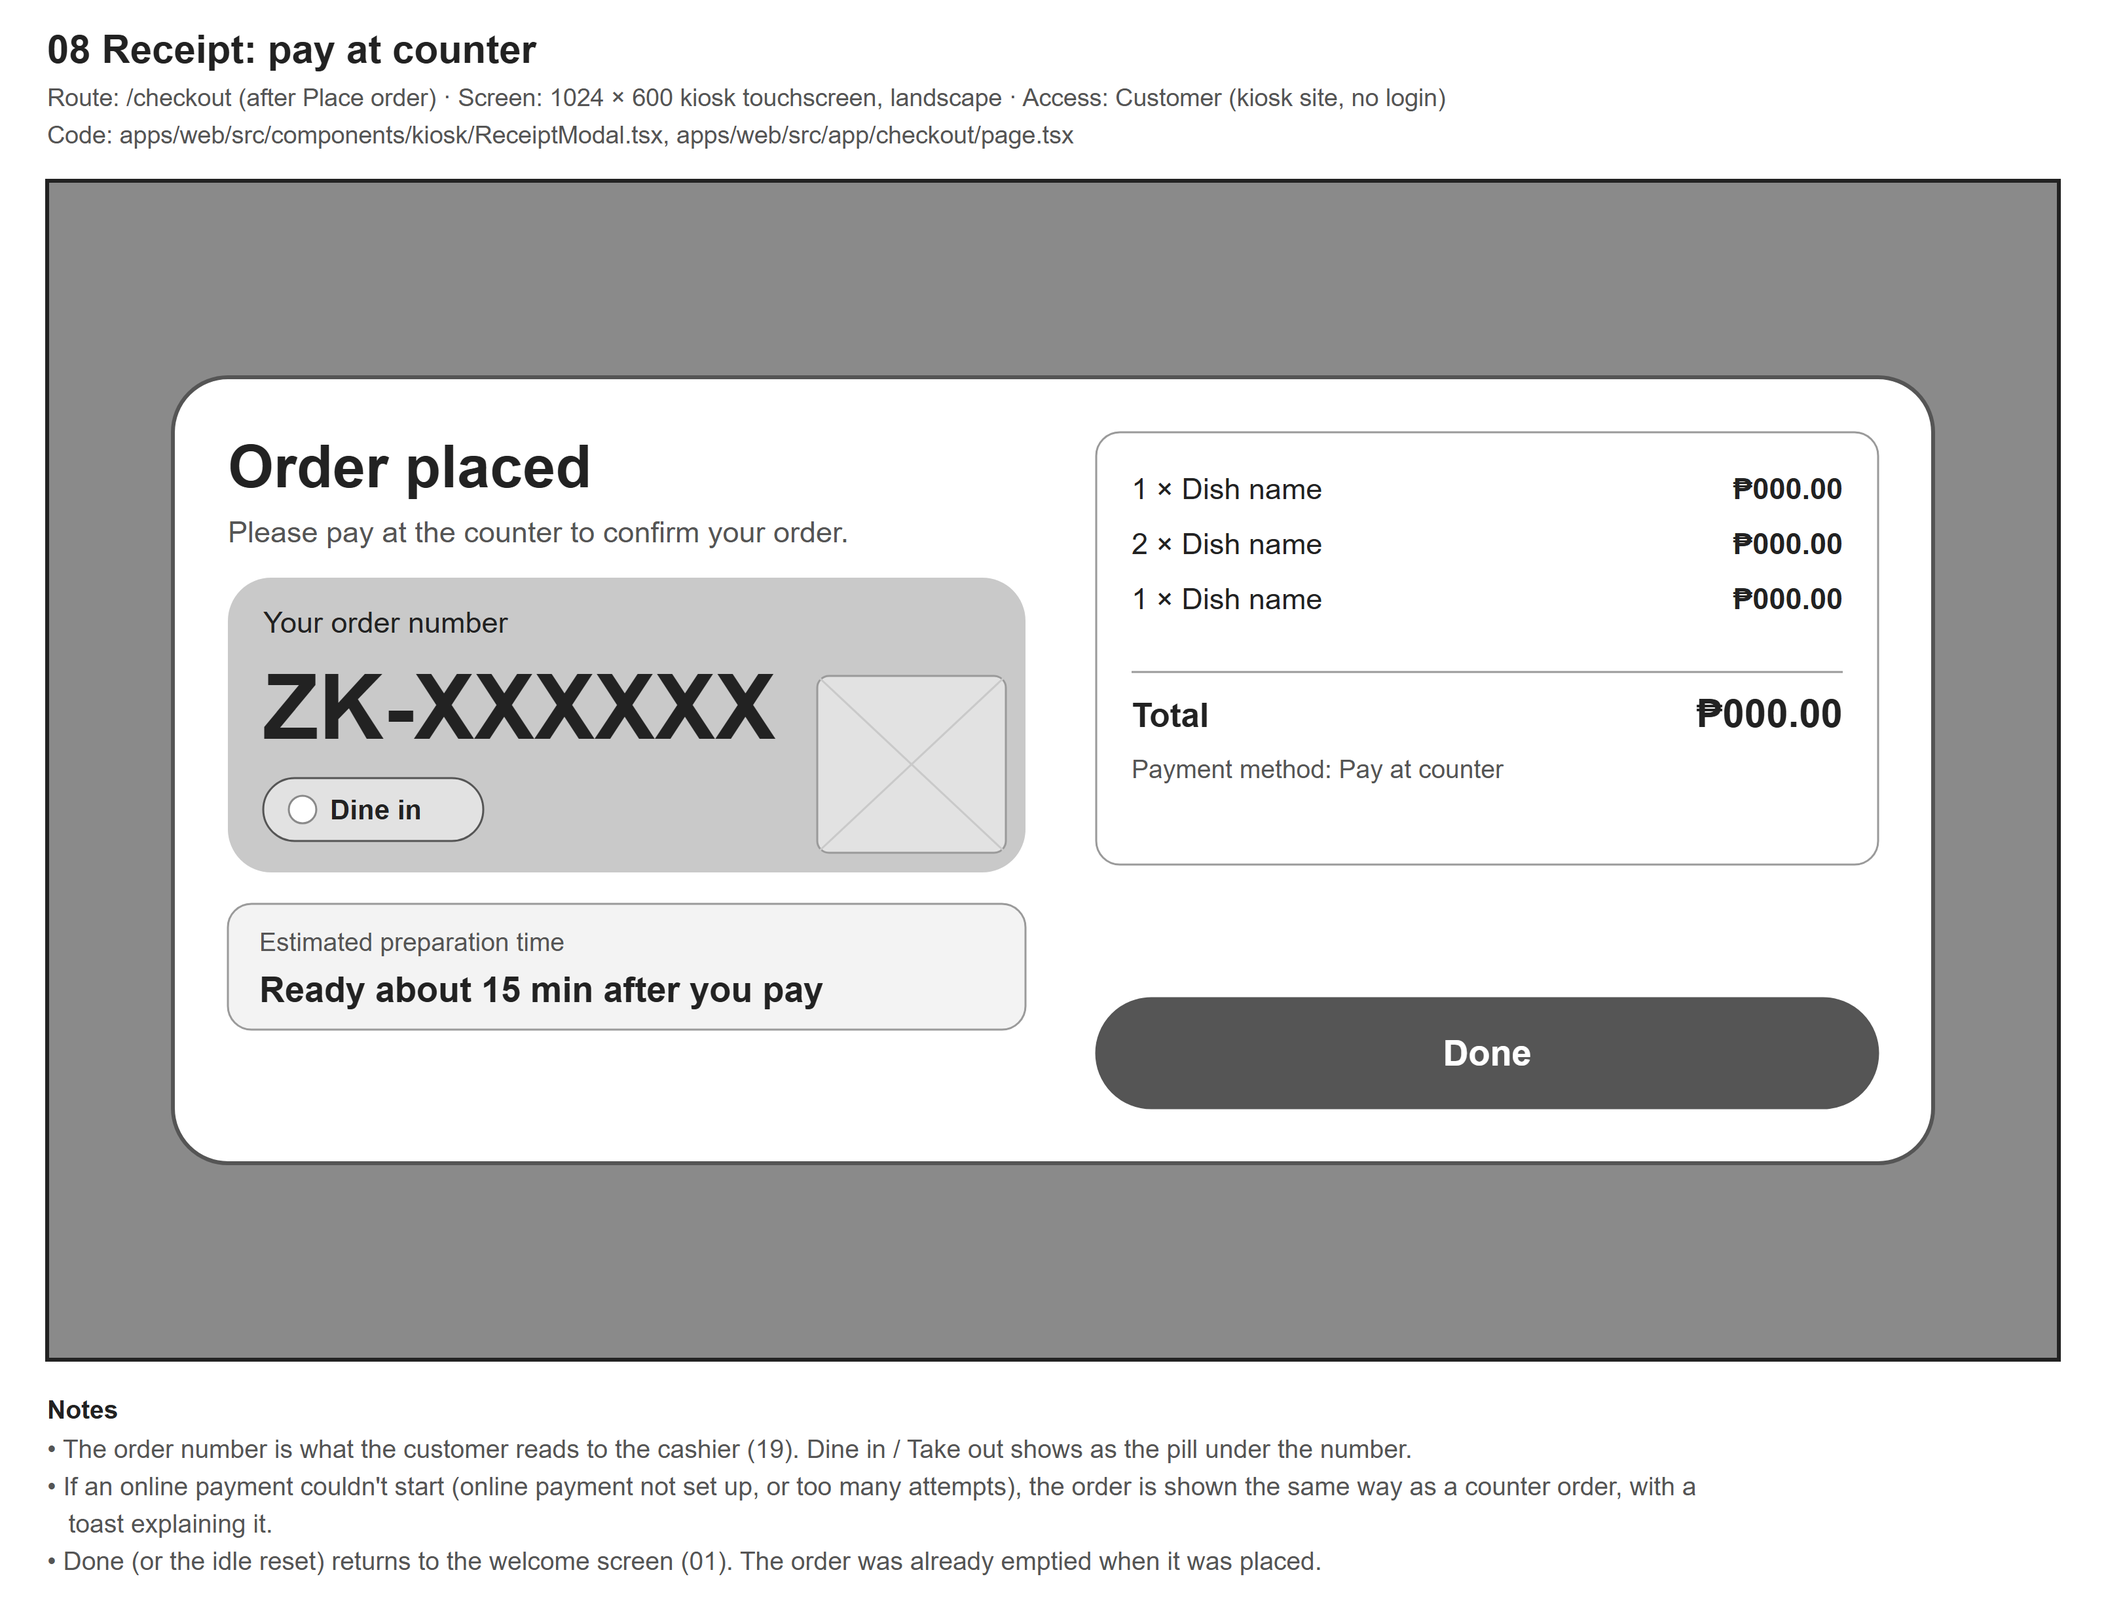
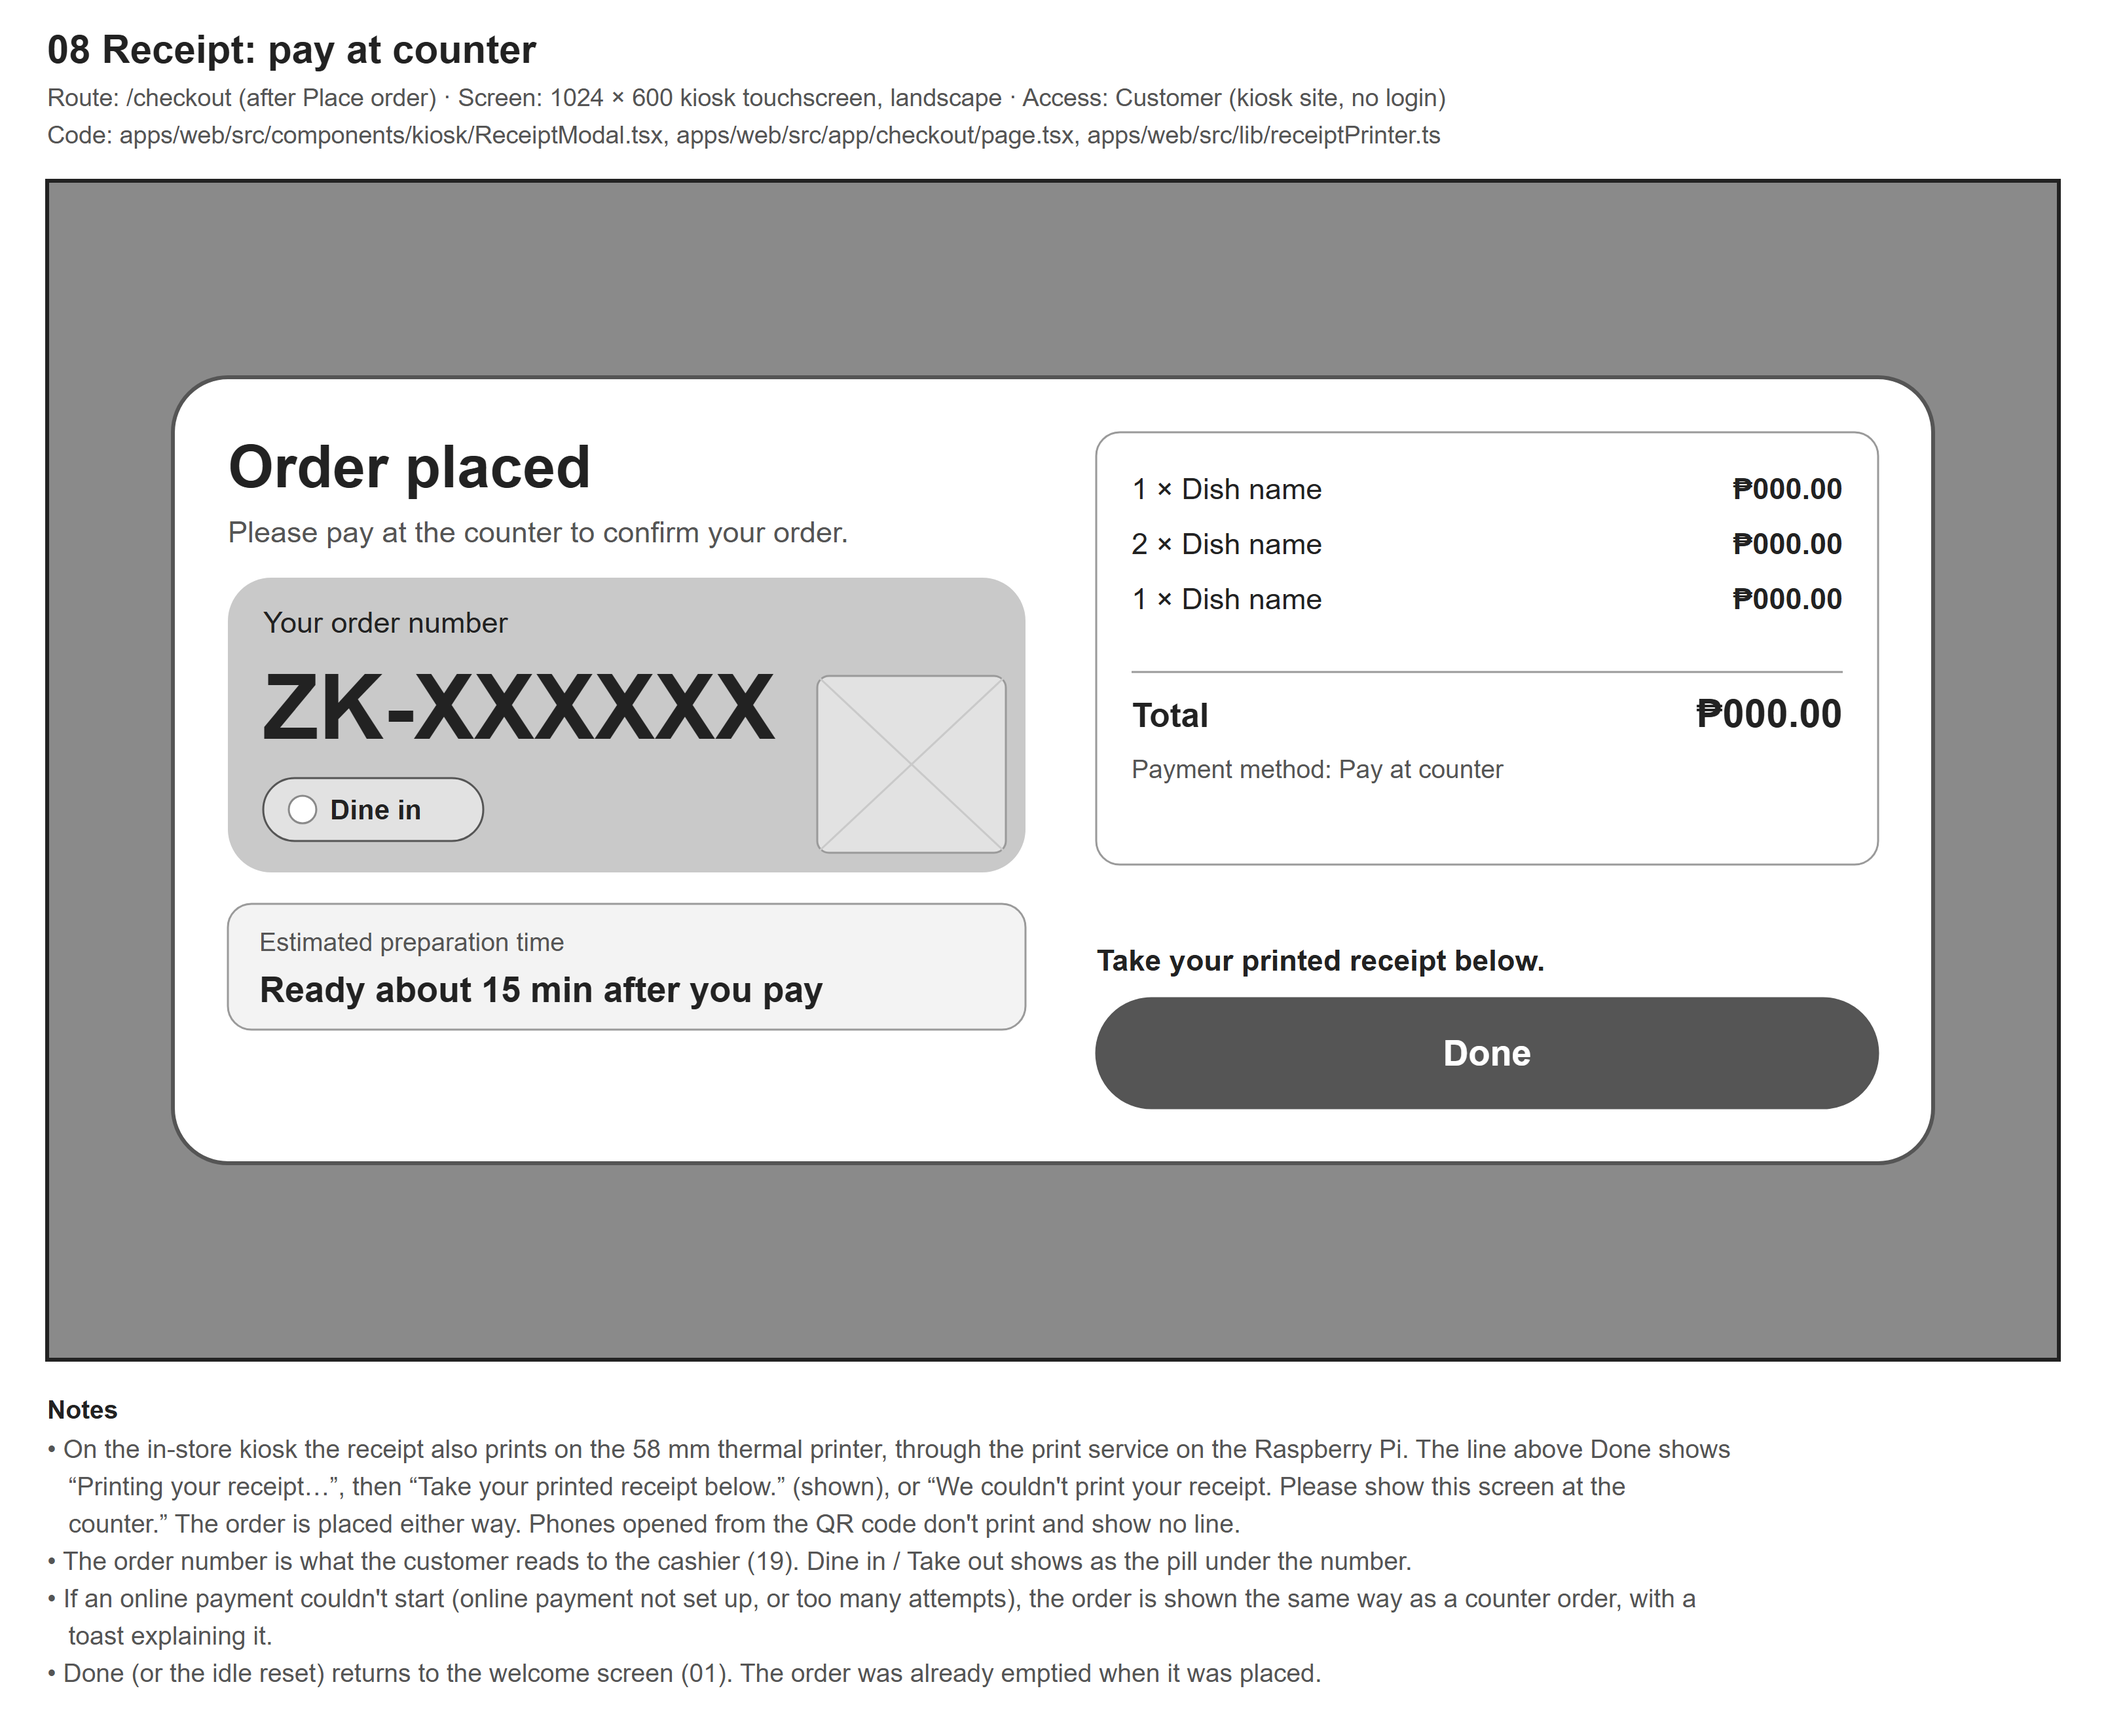
docs: show receipt printing in wireframe 08 and flow 03

diff --git a/docs/diagrams/source/flows.py b/docs/diagrams/source/flows.py
@@ -66,6 +66,7 @@ def ordering():
                  "“Start over” in the top bar, or the idle reset (Flow 13), empties the order and returns to the welcome screen at any point. Dine in / take out is asked only once (02); changing it means starting over.",
                  "If checkout finds an order saved on the device without a dine-in / take-out choice, it sends the customer back to the kiosk home page to choose it (the dishes are kept).",
                  "Estimated preparation time = longest dish + 1 min for each extra serving + 2 min for each order already in the kitchen (orders/prepTime.ts). It is worked out again when the order reaches the kitchen.",
+                 "The print service is a small program on the kiosk's Raspberry Pi (POST http://127.0.0.1:4000/print, printing to the USB printer); it is not in this repository. Printing never blocks the order.",
                  "GCash or Maya chosen while PayMongo isn't set up is saved as Pay at counter. Online payment is not set up in production.",
              ])
     C, K, A = f.lanes
@@ -97,7 +98,10 @@ def ordering():
     f.n("create", A, 20, "process", "Create order ZK-XXXXXX (pending) with a pending payment, total and estimate")
     f.n("counter", K, 21, "decision", "Pay at counter?")
     f.n("receipt", K, 22, "process", "Empty the order; show the receipt with the order number (08)")
-    f.n("pay4", C, 23, "sub", "Pays at the counter (Flow 04)")
+    f.n("printer", K, 23, "decision", "In-store kiosk (opened once with ?printer=1)?")
+    f.n("print", K, 24, "process", "Send the receipt to the print service on the Pi; it prints on the 58 mm printer")
+    f.n("printed", K, 25, "io", "Show “Take your printed receipt below.”, or “We couldn't print your receipt …” if it failed")
+    f.n("pay4", C, 26, "sub", "Pays at the counter (Flow 04)")
     f.n("pay5", A, 22, "sub", "Pays online with GCash or Maya (Flow 05)", partial=True)
     f.e("start", "load")
     f.e("load", "api_menu", exit="r", entry="l")
@@ -133,7 +137,11 @@ def ordering():
     f.e("create", "counter")
     f.e("counter", "receipt", "Yes")
     f.e("counter", "pay5", "No (GCash / Maya)", exit="r", partial=True)
-    f.e("receipt", "pay4", exit="l")
+    f.e("receipt", "printer")
+    f.e("printer", "print", "Yes")
+    f.e("printer", "pay4", "No (phone)", exit="l")
+    f.e("print", "printed")
+    f.e("printed", "pay4", exit="l", entry="r")
     return f
 
 

diff --git a/docs/diagrams/source/screens_kiosk.py b/docs/diagrams/source/screens_kiosk.py
@@ -430,12 +430,16 @@ def receipt(f, paid):
     f.text(rx + 18, y + 178, "Total", size=17, bold=True)
     f.text(rx + rw - 18, y + 178, "₱000.00", size=20, bold=True, anchor="end")
     f.text(rx + 18, y + 204, "Payment method: GCash · Ref: (PayMongo reference)" if paid else "Payment method: Pay at counter", size=13, fill=INK2)
+    if not paid:
+        f.text(rx, y + h - 98, "Take your printed receipt below.", size=15, bold=True)
     f.btn(rx, y + h - 84, rw, 56, "Done", kind="primary", r=28, size=18)
 
 
 def receipt_counter():
-    f = kiosk("08", "Receipt: pay at counter", "/checkout  (after Place order)", K + "ReceiptModal.tsx, apps/web/src/app/checkout/page.tsx")
+    f = kiosk("08", "Receipt: pay at counter", "/checkout  (after Place order)",
+              K + "ReceiptModal.tsx, apps/web/src/app/checkout/page.tsx, apps/web/src/lib/receiptPrinter.ts")
     receipt(f, paid=False)
+    f.add_note("On the in-store kiosk the receipt also prints on the 58 mm thermal printer, through the print service on the Raspberry Pi. The line above Done shows “Printing your receipt…”, then “Take your printed receipt below.” (shown), or “We couldn't print your receipt. Please show this screen at the counter.” The order is placed either way. Phones opened from the QR code don't print and show no line.")
     f.add_note("The order number is what the customer reads to the cashier (19). Dine in / Take out shows as the pill under the number.")
     f.add_note("If an online payment couldn't start (online payment not set up, or too many attempts), the order is shown the same way as a counter order, with a toast explaining it.")
     f.add_note("Done (or the idle reset) returns to the welcome screen (01). The order was already emptied when it was placed.")

diff --git a/docs/diagrams/source/readme.py b/docs/diagrams/source/readme.py
@@ -23,7 +23,7 @@ WIREFRAME_DESC = {
     "06": "“Still there?” popup shown after 60 seconds without a touch.",
     "07": "Review & pay: the order with the prep-time estimate, payment method, total and Place order.",
     "07b": "Review & pay with an empty order.",
-    "08": "Receipt for a pay-at-counter order: order number, order type, prep time, items, Done.",
+    "08": "Receipt for a pay-at-counter order: order number, order type, prep time, items, print status, Done.",
     "08b": "Receipt after an online payment (partial: online payment isn't live).",
     "09": "Return page from PayMongo while the payment is being confirmed (partial).",
     "09b": "Return page when the order can't be loaded.",
@@ -142,7 +142,9 @@ def main():
         "- **Orders awaiting payment** doesn't refresh by itself when an order is placed or paid; the server sends `payment:confirmed`, but no page listens (19).",
         "- **Low-stock emails** need email set up for the worker (Resend or SMTP); without it alerts wait in the database (flow 07).",
         "- **No custom “page not found”**: staff pages on the kiosk site show Next.js's default 404, so it has no wireframe.",
-        "- **No receipt printer** code; the receipt is on screen only.",
+        "- **Receipt printing** works only through the print service on the kiosk's Raspberry Pi, whose code isn't in this repository; "
+        "it currently prints the order number, date, items and total, always with “Please pay at the counter” (08, flow 03). "
+        "Receipts after an online payment (08b) don't print yet.",
         "",
         "## Rebuilding",
         "",

diff --git a/docs/diagrams/README.md b/docs/diagrams/README.md
@@ -30,7 +30,7 @@ The kiosk is drawn at its 1024 × 600 touchscreen size; the back office at a 128
 | [06-idle-popup.png](png/06-idle-popup.png) | “Still there?” idle popup | `/, /checkout, /checkout/success` | “Still there?” popup shown after 60 seconds without a touch. | components/kiosk/IdleTimeoutOverlay.tsx, hooks/useIdleTimer.ts |
 | [07-checkout.png](png/07-checkout.png) | Review & pay (checkout) | `/checkout` | Review & pay: the order with the prep-time estimate, payment method, total and Place order. | app/checkout/page.tsx |
 | [07b-checkout-empty.png](png/07b-checkout-empty.png) | Review & pay: empty order | `/checkout` | Review & pay with an empty order. | app/checkout/page.tsx (empty branch) |
-| [08-receipt-counter.png](png/08-receipt-counter.png) | Receipt: pay at counter | `/checkout  (after Place order)` | Receipt for a pay-at-counter order: order number, order type, prep time, items, Done. | components/kiosk/ReceiptModal.tsx, app/checkout/page.tsx |
+| [08-receipt-counter.png](png/08-receipt-counter.png) | Receipt: pay at counter | `/checkout  (after Place order)` | Receipt for a pay-at-counter order: order number, order type, prep time, items, print status, Done. | components/kiosk/ReceiptModal.tsx, app/checkout/page.tsx, lib/receiptPrinter.ts |
 | [08b-receipt-paid.png](png/08b-receipt-paid.png) | Receipt: paid online | `/checkout/success  (after PayMongo)` | Receipt after an online payment (partial: online payment isn't live). | components/kiosk/ReceiptModal.tsx, app/checkout/success/page.tsx |
 | [09-payment-return.png](png/09-payment-return.png) | Payment return: confirming | `/checkout/success?order=…` | Return page from PayMongo while the payment is being confirmed (partial). | app/checkout/success/page.tsx |
 | [09b-payment-return-error.png](png/09b-payment-return-error.png) | Payment return: no order to show | `/checkout/success` | Return page when the order can't be loaded. | app/checkout/success/page.tsx |
@@ -96,7 +96,7 @@ These are marked in the diagrams (dashed outlines or notes). They describe the c
 - **Orders awaiting payment** doesn't refresh by itself when an order is placed or paid; the server sends `payment:confirmed`, but no page listens (19).
 - **Low-stock emails** need email set up for the worker (Resend or SMTP); without it alerts wait in the database (flow 07).
 - **No custom “page not found”**: staff pages on the kiosk site show Next.js's default 404, so it has no wireframe.
-- **No receipt printer** code; the receipt is on screen only.
+- **Receipt printing** works only through the print service on the kiosk's Raspberry Pi, whose code isn't in this repository; it currently prints the order number, date, items and total, always with “Please pay at the counter” (08, flow 03). Receipts after an online payment (08b) don't print yet.
 
 ## Rebuilding
 
